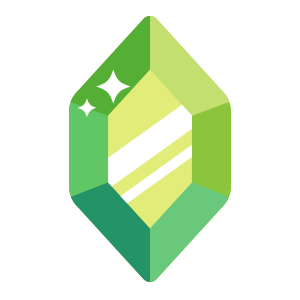
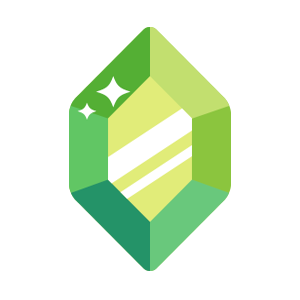
finished game display, added some JS

diff --git a/index.html b/index.html
@@ -5,7 +5,7 @@
     <meta http-equiv="X-UA-Compatible" content="IE=edge">
     <title>Crystal Collector</title>
     <meta name="viewport" content="width=device-width, initial-scale=1">
-    <link rel="shortcut icon" type="image/x-icon" href="assets/images/crystal-4.png">
+    <link rel="shortcut icon" type="image/x-icon" href="assets/images/crystal-2.png">
     <!-- Bootstrap CSS -->
     <link rel="stylesheet" href="https://stackpath.bootstrapcdn.com/bootstrap/4.1.3/css/bootstrap.min.css" integrity="sha384-MCw98/SFnGE8fJT3GXwEOngsV7Zt27NXFoaoApmYm81iuXoPkFOJwJ8ERdknLPMO" crossorigin="anonymous">
 
@@ -19,7 +19,27 @@
         <div class="row justify-content-center">
             <div class="col-lg-10 text-center mt-5">
                 <h1 class="main-title">Crystal Collector Game</h1>
-                <p><a href="#">How to Play?</a></p>
+                <p><a class="game-info-trigger" href="#" data-toggle="modal" data-target="#game-info">How to Play?</a></p>
+                <!-- Modal -->
+                <div class="modal fade" id="game-info" tabindex="-1" role="dialog" aria-labelledby="exampleModalCenterTitle" aria-hidden="true">
+                    <div class="modal-dialog modal-dialog-centered" role="document">
+                        <div class="modal-content">
+                            <div class="modal-header">
+                                <h5 class="modal-title" id="exampleModalLongTitle">Game Mechanics</h5>
+                                <button type="button" class="close" data-dismiss="modal" aria-label="Close">
+                                    <span aria-hidden="true">&times;</span>
+                                </button>
+                            </div>
+                            <div class="modal-body">
+                                <p>At the start of the game you will be given a random number of crystals to collect.</p>
+                                <p>There are four crystals below. By clicking on a crystal you will add a specific number to your collection.</p>
+                                <p>You win the game by matching the total number of crystals you collected to what is needed, go over the number of needed crystals and you lose.</p>
+                                <p>The value of each crystal is hidden from you until you click on it.</p>
+                                <p>Each time the game starts, the values of each crystal below changes.</p>
+                            </div>
+                        </div>
+                    </div>
+                </div>
             </div>
         </div>
     </div>
@@ -28,25 +48,33 @@
     <div class="container-fluid but-fixed">
         <div class="row justify-content-center">
             <div class="col-lg-10 text-center mt-2">
-                <h3 class="h5 main-title">Target Number</h3>
-                <div class="target-number">115</div>
-                <p class="stats">
-                    <span class="game-status">Wins: <span class="win-count"></span></span>
-                    <span class="game-status">Losses: <span class="loss-count"></span></span>
+                <div class="d-flex justify-content-center">
+                    <div class="number-col">
+                        <h3 class="h6 main-title">Needed</h3>
+                        <div class="target-number number-box">115</div>
+                    </div>
+                    <div class="number-col">
+                        <h3 class="h6 main-title">Collected</h3>
+                        <div class="your-number number-box">115</div>
+                    </div>
+                </div>
+                <p class="game-stats">
+                    <span class="game-status">Wins: <span class="win-count">0</span></span>
+                    <span class="game-status">Losses: <span class="loss-count">0</span></span>
                 </p>
             </div>
             <div class="col-md-8 col-lg-6 text-center mt-3">
                 <div class="row">
-                    <div class="col-6 col-sm-3 col-md-3 crystal-box">
+                    <div class="col-6 col-sm-3 col-md-3 crystal-col">
                         <img src="assets/images/crystal-1.png" data-value="">
                     </div>
-                    <div class="col-6 col-sm-3 col-md-3 crystal-box">
+                    <div class="col-6 col-sm-3 col-md-3 crystal-col">
                         <img src="assets/images/crystal-2.png" data-value="">
                     </div>
-                    <div class="col-6 col-sm-3 col-md-3 crystal-box">
+                    <div class="col-6 col-sm-3 col-md-3 crystal-col">
                         <img src="assets/images/crystal-3.png" data-value="">
                     </div>
-                    <div class="col-6 col-sm-3 col-md-3 crystal-box">
+                    <div class="col-6 col-sm-3 col-md-3 crystal-col">
                         <img src="assets/images/crystal-4.png" data-value="">
                     </div>
                 </div>

diff --git a/assets/css/style.css b/assets/css/style.css
@@ -21,20 +21,56 @@ body {
 .container-fluid.but-fixed {
     max-width: 1230px;
 }
-.target-number {
+.game-info-trigger {
+    font-size: 1.2em;
+    color: inherit;
+}
+.game-info-trigger:hover {
+    color: inherit;
+}
+#game-info .modal-content {
+    color: #555;
+    text-align: left;
+    font-family: 'Open Sans', 'Trebuchet MS', Verdana, Arial, Helvetica, sans-serif;
+}
+.number-col {
+    margin: 0 20px;
+}
+.number-box {
     margin: 10px auto;
-    max-width: 150px;
-    padding: 20px 30px;
+    width: 120px;
+    padding: 15px 30px;
     font-size: 2em;
     border: 1px solid #fff;
     border-radius: 5px;
 }
-.crystal-box {
+.game-stats {
+    margin-top: 15px;
+    font-size: 1.2em;
+}
+.game-status {
+    display: inline-block;
+    margin: 0 20px;
+}
+.win-count, .loss-count {
+    display: inline-block;
+    min-width: 30px;
+    padding: 0 5px;
+    text-align: center;
+    border-bottom: 1px solid #fff;
+    border-radius: 3px;
+}
+.crystal-col {
     padding-top: 20px;
     padding-bottom: 20px;
     overflow: hidden;
 }
-.crystal-box img {
+.crystal-col img {
     width: 100%;
     max-width: 80px;
+    transition: transform ease-in-out .2s;
+    cursor: pointer;
+}
+.crystal-col img:hover {
+    transform: scale(1.3);
 }

diff --git a/assets/javascript/game.js b/assets/javascript/game.js
@@ -1,5 +1,10 @@
 // global variables
 let wins = 0,
-	losses = 0,
-	targetNumber = "",
+    losses = 0,
+    targetNumber = "",
     yourNumber = 0;
+
+// get random number between two numbers
+function getRandomNumber(min, max) {
+    return Math.floor(Math.random() * (max - min + 1) + min);
+}
